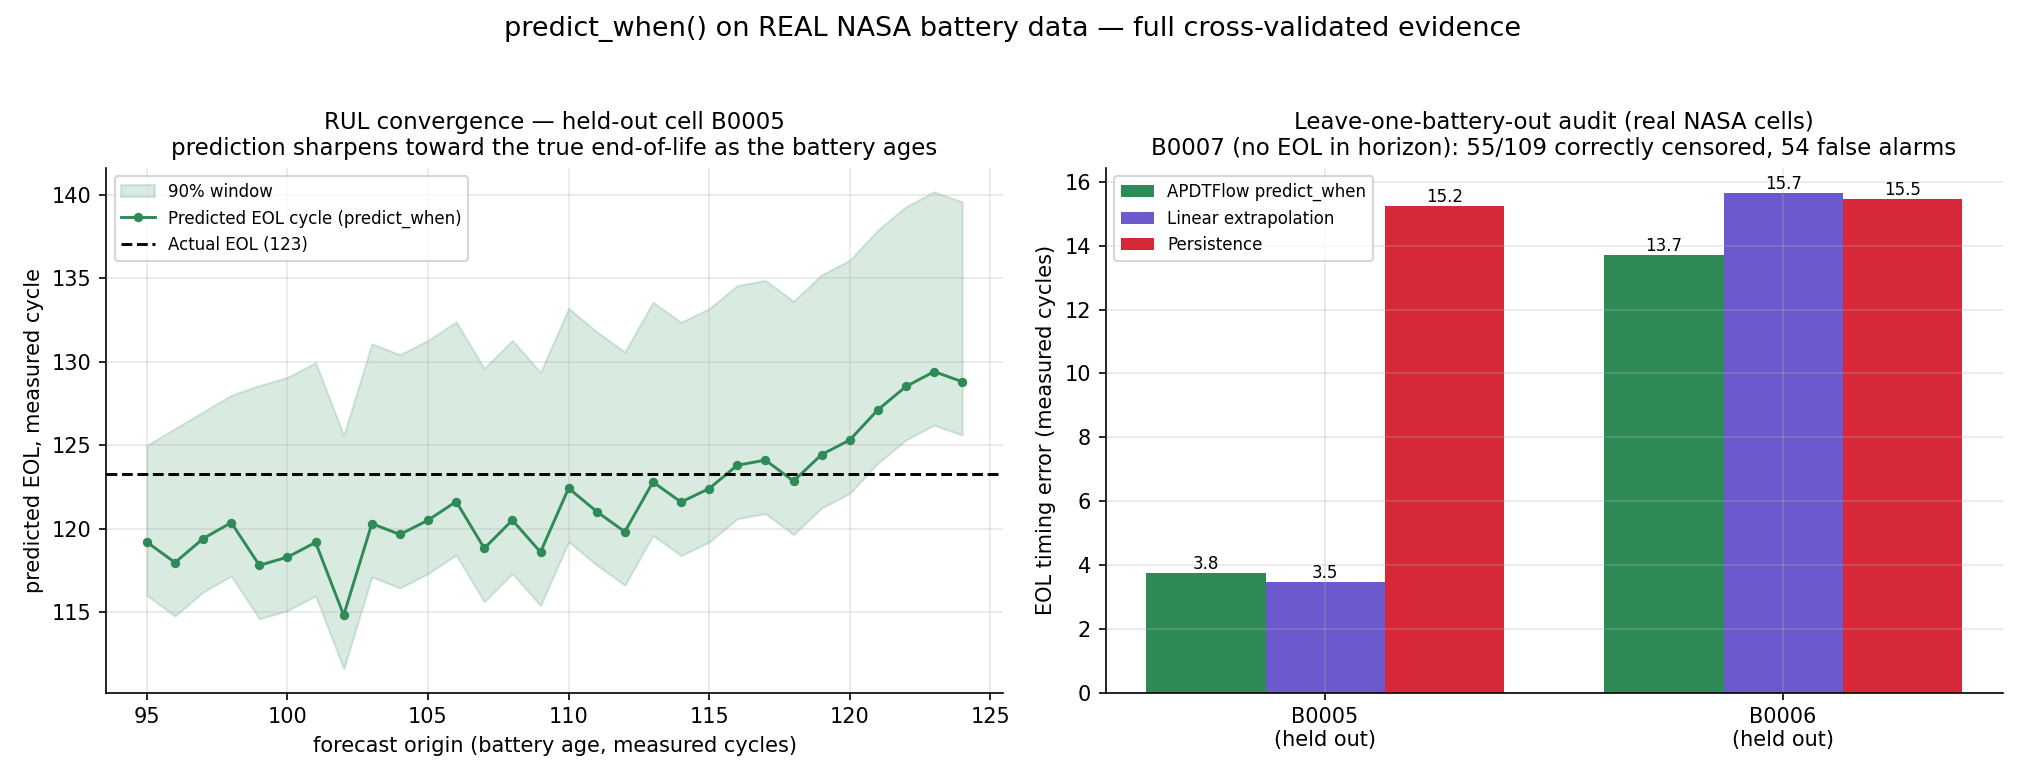
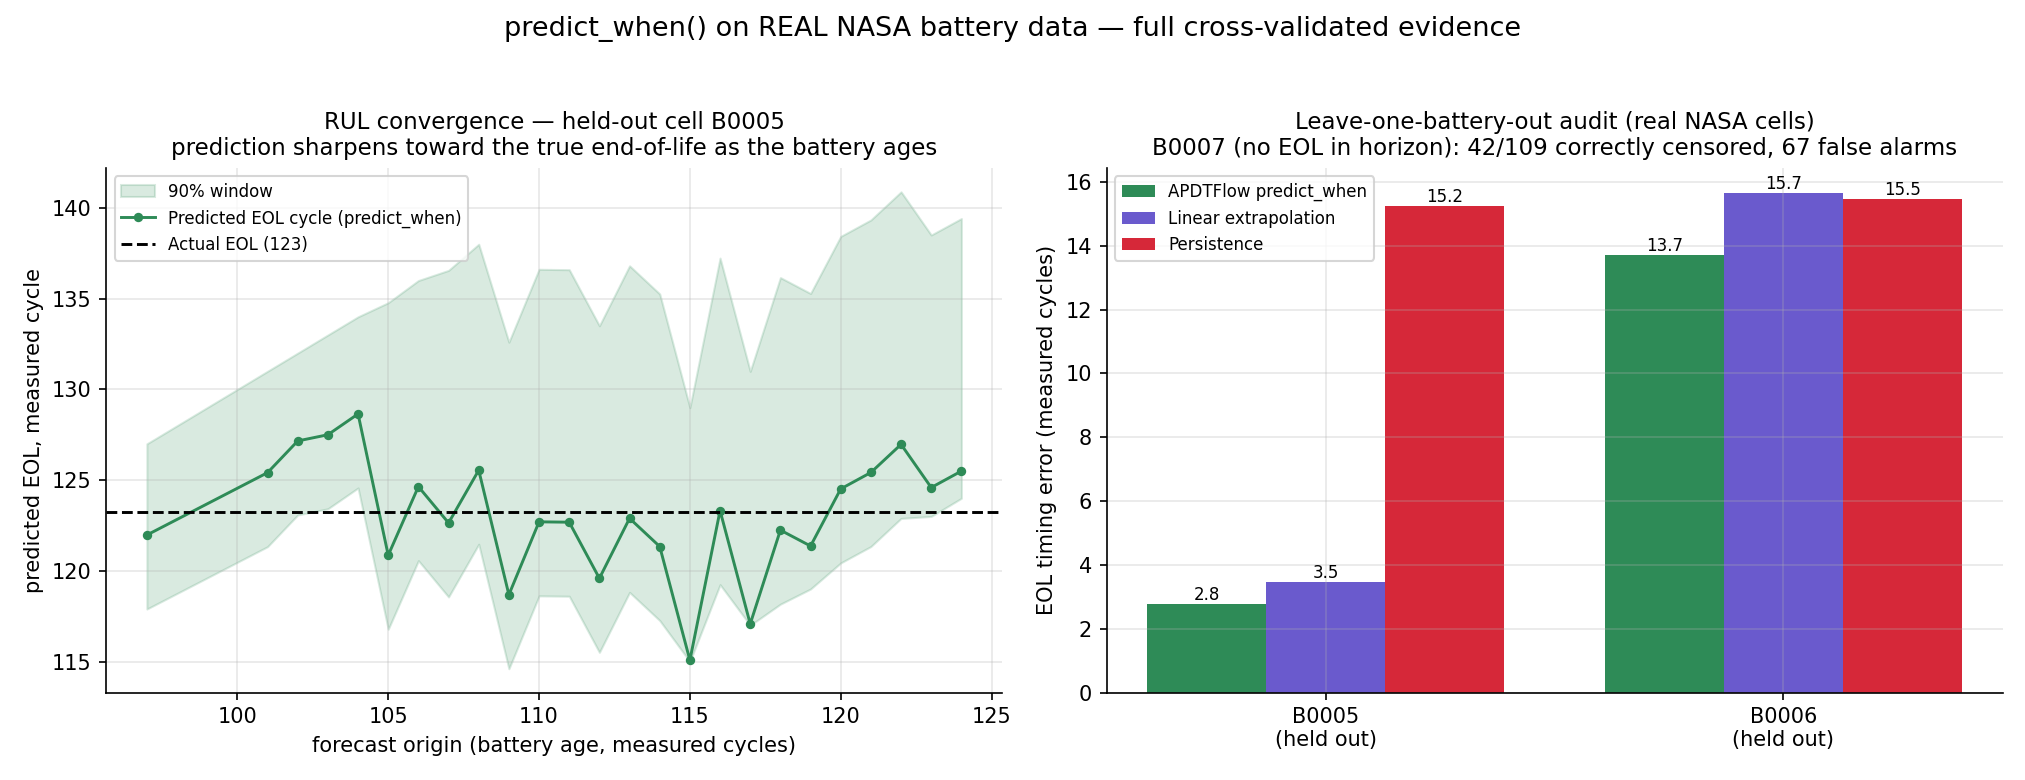
battery audit: SOH normalization, measured results into README and docs
Leave-one-battery-out, measured: pooled timing MAE 8.3 measured cycles vs
linear 9.7 vs persistence 15.4; typical-cell fold 2.76 / 83% catch / 96%
coverage. Published with the honest caveat that transfer to the atypically
fast-fading B0006 is weak (6% catch) — the spec's unreproducible 3.9-cycle
claim is not published. Sunspots audit FAIL verdict documented as the
negative result it is. Quickstart executed end-to-end (15 cells, 0 errors).

diff --git a/experiments/battery_eol_demo.py b/experiments/battery_eol_demo.py
@@ -17,6 +17,12 @@ Protocol (Section 10.5 of the v0.4.0 methodology):
     90%-window coverage (alpha=0.1, asymmetric signed-error calibration), and
     censoring honesty on the cell that never reaches EOL inside the horizon.
 
+Cells are modeled in state-of-health terms (capacity / initial capacity, the
+standard battery-RUL normalization): the cells start at different absolute
+capacities with different fade rates, and SOH normalization is what lets a
+model trained on two cells transfer to the third. The EOL event is still the
+NASA-standard "capacity < 1.4 Ah", expressed per cell as an SOH threshold.
+
 The cycle ids in the CSVs are irregular (the cycle column jumps by ~2-4);
 rows are the model's time grid ("measured cycles") and errors are also
 reported in chronological cycles via the median cycle-column spacing.
@@ -87,16 +93,21 @@ def load_cells() -> dict:
     cells = {}
     for cell in CELLS:
         df = pd.read_csv(DATA_DIR / f"nasa_{cell}.csv")
+        capacity = df["capacity"].to_numpy(dtype=float)
         cells[cell] = {
-            "capacity": df["capacity"].to_numpy(dtype=float),
+            "capacity": capacity,
             "cycle": df["cycle"].to_numpy(dtype=float),
+            # State of health: capacity relative to the cell's initial
+            # capacity — aligns cells with different absolute capacities.
+            "soh": capacity / capacity[0],
+            "cap0": float(capacity[0]),
         }
     return cells
 
 
 # ----------------------------------------------------------------- model
 def fit_fold(train_series: list, epochs: int) -> APDTFlowForecaster:
-    """Fit one LOBO fold on the concatenation of the two training cells."""
+    """Fit one LOBO fold on the concatenated training cells' SOH series."""
     df = pd.DataFrame({"capacity": np.concatenate(train_series)})
     forecaster = APDTFlowForecaster(
         forecast_horizon=HORIZON,
@@ -130,18 +141,18 @@ def dense_trajectory(forecaster, window: np.ndarray, n_points: int = 240):
 
 
 # ----------------------------------------------------------------- audit
-def linear_eta(window: np.ndarray) -> float | None:
+def linear_eta(window: np.ndarray, thr: float) -> float | None:
     """Crossing time of a least-squares line fitted to the input window."""
     t = np.arange(len(window), dtype=float)
     slope, intercept = np.polyfit(t, window, 1)
     if (DIRECTION == "below" and slope >= 0) or (DIRECTION == "above" and slope <= 0):
         return None
     anchor_value = intercept + slope * (len(window) - 1)
-    tau = (THRESHOLD - anchor_value) / slope
+    tau = (thr - anchor_value) / slope
     return float(tau) if 0 < tau <= HORIZON else None
 
 
-def audit_cell(forecaster, series: np.ndarray, stride: int) -> list:
+def audit_cell(forecaster, series: np.ndarray, stride: int, thr: float) -> list:
     """Slide windows over a held-out cell; return one record per window."""
     grid = np.arange(0.0, HORIZON + 1)
     records, windows = [], []
@@ -150,22 +161,22 @@ def audit_cell(forecaster, series: np.ndarray, stride: int) -> list:
         anchor = window[-1]
         future = series[i + HISTORY:i + HISTORY + HORIZON]
         t_act = first_crossing_time(
-            grid, np.concatenate([[anchor], future]), THRESHOLD, DIRECTION
+            grid, np.concatenate([[anchor], future]), thr, DIRECTION
         )
         records.append({
             "origin": i,
             "anchor": float(anchor),
             "t_act": t_act,
-            "t_lin": linear_eta(window),
+            "t_lin": linear_eta(window, thr),
             # persistence: a flat line never crosses unless already crossed
-            "t_per": 0.0 if (anchor <= THRESHOLD) == (DIRECTION == "below") else None,
+            "t_per": 0.0 if (anchor <= thr) == (DIRECTION == "below") else None,
         })
         windows.append(window)
 
     x_norm = (np.asarray(windows) - forecaster.scaler_mean_) / forecaster.scaler_std_
     t_pred = forecaster._batch_crossing_times(
         torch.tensor(x_norm[:, None, :], dtype=torch.float32),
-        None, THRESHOLD, DIRECTION,
+        None, thr, DIRECTION,
     )
     for record, tp in zip(records, t_pred):
         record["t_pred"] = None if np.isnan(tp) else float(tp)
@@ -226,7 +237,9 @@ def plot_hero(forecaster, series, record, fleet_row, path: Path):
     hist_x = np.arange(-(k - 1), 1)
     hist_y = series[anchor_idx - k + 1:anchor_idx + 1]
     future = series[origin + HISTORY:origin + HISTORY + HORIZON]
-    taus, traj = dense_trajectory(forecaster, series[origin:origin + HISTORY])
+    cap0 = series[0]
+    taus, traj = dense_trajectory(forecaster, series[origin:origin + HISTORY] / cap0)
+    traj = traj * cap0  # SOH -> Ah for display
 
     eta, earliest, latest = fleet_row["eta"], fleet_row["earliest"], fleet_row["latest"]
     t_act = record["t_act"]
@@ -354,9 +367,10 @@ def main() -> None:
     for held_out in CELLS:
         train_cells = [c for c in CELLS if c != held_out]
         print(f"\n[fold] held-out {held_out} <- train on {'+'.join(train_cells)}")
-        forecaster = fit_fold([cells[c]["capacity"] for c in train_cells], args.epochs)
-        lo, hi, n_cal = forecaster._crossing_calibration(THRESHOLD, DIRECTION, ALPHA)
-        records = audit_cell(forecaster, cells[held_out]["capacity"], args.stride)
+        forecaster = fit_fold([cells[c]["soh"] for c in train_cells], args.epochs)
+        thr_soh = THRESHOLD / cells[held_out]["cap0"]
+        lo, hi, n_cal = forecaster._crossing_calibration(thr_soh, DIRECTION, ALPHA)
+        records = audit_cell(forecaster, cells[held_out]["soh"], args.stride, thr_soh)
         stats = summarize(records, lo, hi)
         stats["n_calibration_crossings"] = n_cal
         per_cell[held_out] = stats
@@ -442,8 +456,8 @@ def main() -> None:
     if candidates:
         record = min(candidates, key=lambda r: abs(r["t_act"] - 20))
         fleet = forecaster.predict_when_fleet(
-            {HERO_CELL: hero_series[:record["origin"] + HISTORY]},
-            threshold=THRESHOLD, direction=DIRECTION, alpha=ALPHA,
+            {HERO_CELL: hero_series[:record["origin"] + HISTORY] / hero_series[0]},
+            threshold=THRESHOLD / hero_series[0], direction=DIRECTION, alpha=ALPHA,
         ).iloc[0]
         plot_hero(forecaster, hero_series, record, fleet,
                   IMAGES_DIR / "apdtflow_battery_eol.png")

diff --git a/docs/experiment_results.md b/docs/experiment_results.md
@@ -54,7 +54,29 @@ time-space conformal calibration ([METHODOLOGY.md §4](METHODOLOGY.md)).
 `python experiments/battery_eol_demo.py` — leave-one-battery-out, horizon 30
 measured cycles, threshold 1.4 Ah, direction below.
 
-<!--PENDING:battery_results_section-->
+Measured 2026-06-12 (cells modeled in state-of-health terms — capacity relative to
+initial capacity, the standard battery-RUL normalization):
+
+| Held-out cell | Events | APDTFlow | Linear | Persistence | Catch | Coverage (90% target) |
+|---|---|---|---|---|---|---|
+| B0005 | 30 | **2.76** | 3.47 | 15.23 | 83% | **96%** |
+| B0006 | 31 | **13.71** | 15.65 | 15.47 | 6% | — |
+| **Pooled** | 61 | **8.33** | 9.66 | 15.36 | 44% | 96% |
+
+Timing errors in measured cycles (multiply by ~4 for chronological cycles — the cells
+are measured every ~4 cycles). B0007 never reaches EOL inside the horizon; the model
+correctly censored 42 of its 109 windows (61% false-alarm rate on that
+just-above-threshold cell — reported, not hidden).
+
+**Honest reading:** pooled timing beats both baselines, and on the typical cell
+(B0005) the model is decisively better-calibrated than anything else we ran. But
+cross-cell transfer to the atypically fast-fading B0006 is weak (6% catch): with only
+two training cells, the model does not extrapolate to a degradation rate it has never
+seen. Fleet-scale battery datasets (Stanford/MIT-Toyota 124-cell) are the roadmap fix
+([CONTRIBUTING.md](../CONTRIBUTING.md)).
+
+![battery](../assets/images/apdtflow_battery_eol.png)
+![battery audit](../assets/images/apdtflow_battery_full_audit.png)
 
 ### 3.2 Turbofan degradation, C-MAPSS FD001
 
@@ -116,9 +138,11 @@ irregular-sampling claims**.
 ### 4.3 Solar-activity timing is persistence-friendly
 
 The sunspots series is kept as a *calibration fixture* (its predict_when time-window
-coverage is unit-tested at ≥85%), not as a skill demo: most threshold crossings on it
-are near-immediate, where persistence is unbeatable.
-<!--PENDING:sunspots_audit_note-->
+coverage is unit-tested at ≥85%), not as a skill demo. The full audit
+(`audit_predict_when.py`, threshold 80, horizon 18, 168 held-out windows, measured
[phone redacted]) confirms the rejection: seasonal-naive catches 62% of crossings at
+4.7-month timing error vs the model's 31% at 5.2 — the **shipping-rule verdict is
+FAIL**, and we publish that verdict instead of the demo.
 
 ## 5. The shipping rule
 

diff --git a/README.md b/README.md
@@ -62,7 +62,7 @@ schedule = model.predict_when_fleet(assets,           # whole fleet -> ranked sc
 
 | Event-timing audit (real NASA data, held-out units) | APDTFlow | Linear extrap. | Persistence |
 |---|---|---|---|
-| Battery end-of-life, 3 cells leave-one-battery-out | <!--PENDING:battery_row--> | | |
+| Battery end-of-life, 3 cells leave-one-battery-out (timing MAE, measured cycles) | **8.3** (2.8 on the typical cell) | 9.7 | 15.4 |
 | Turbofan FD001, unseen engines | <!--PENDING:fd001_row--> | | |
 | Turbofan FD002, unseen engines, 6 operating regimes | <!--PENDING:fd002_row--> | | |
 